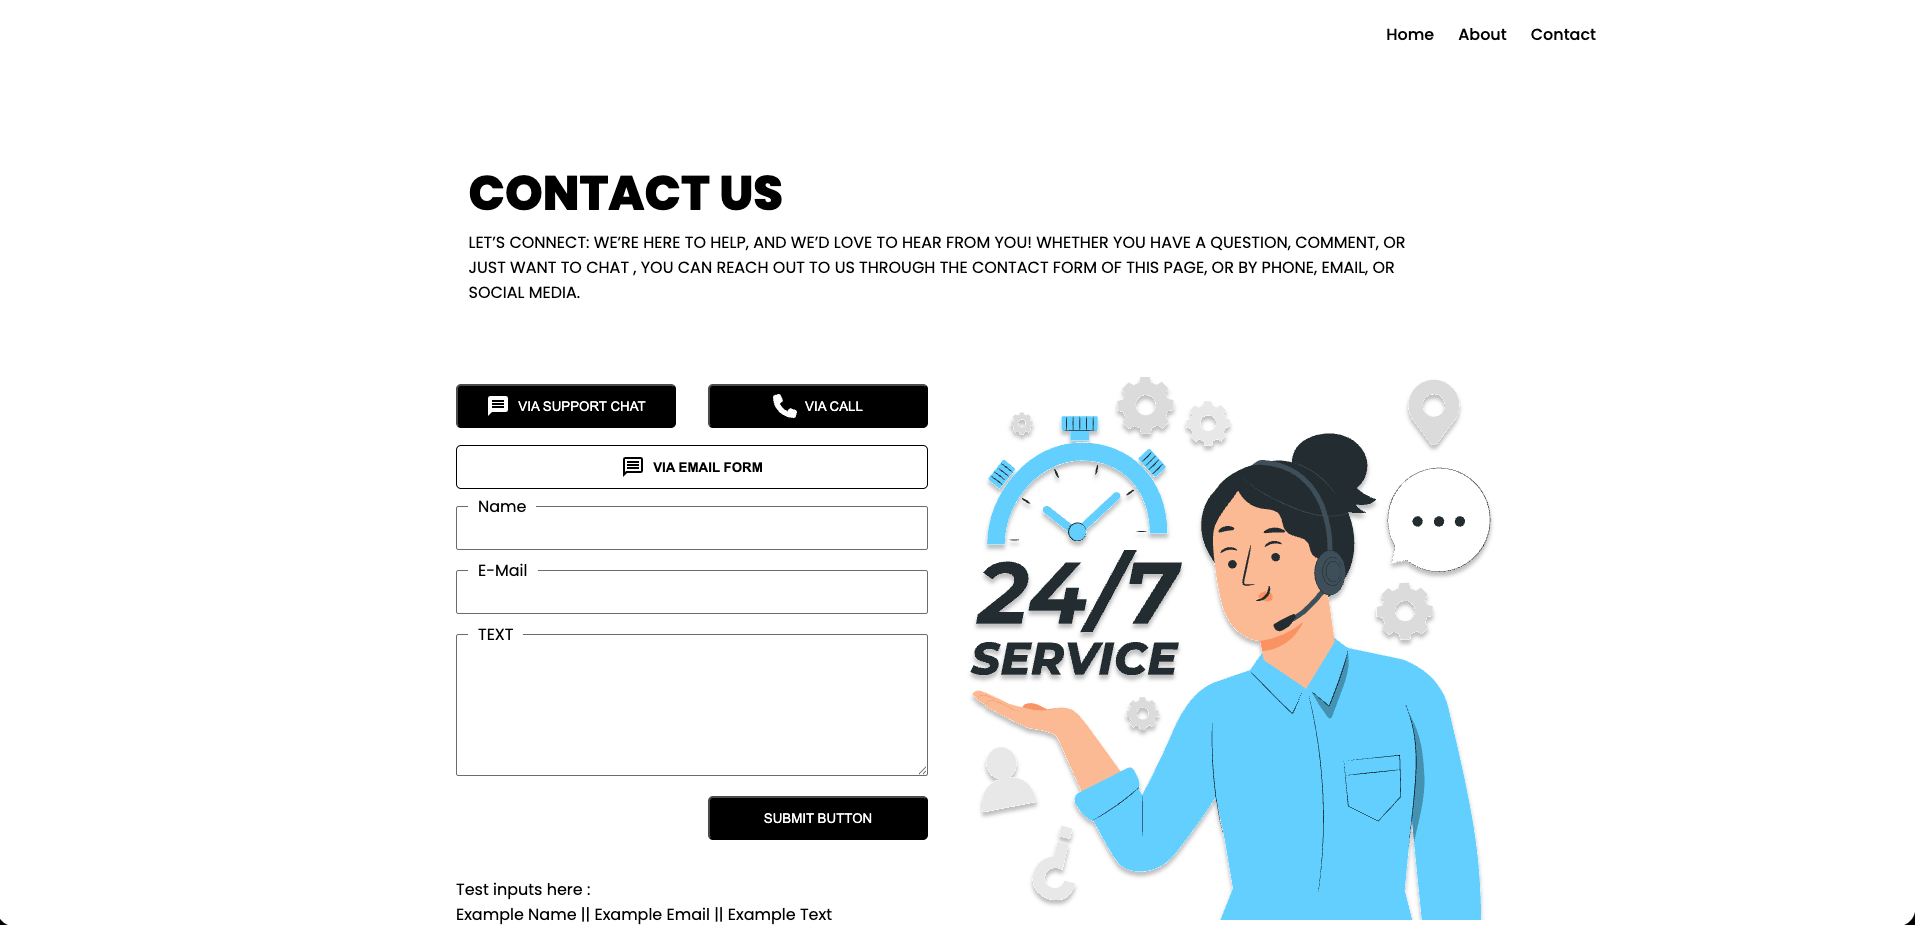
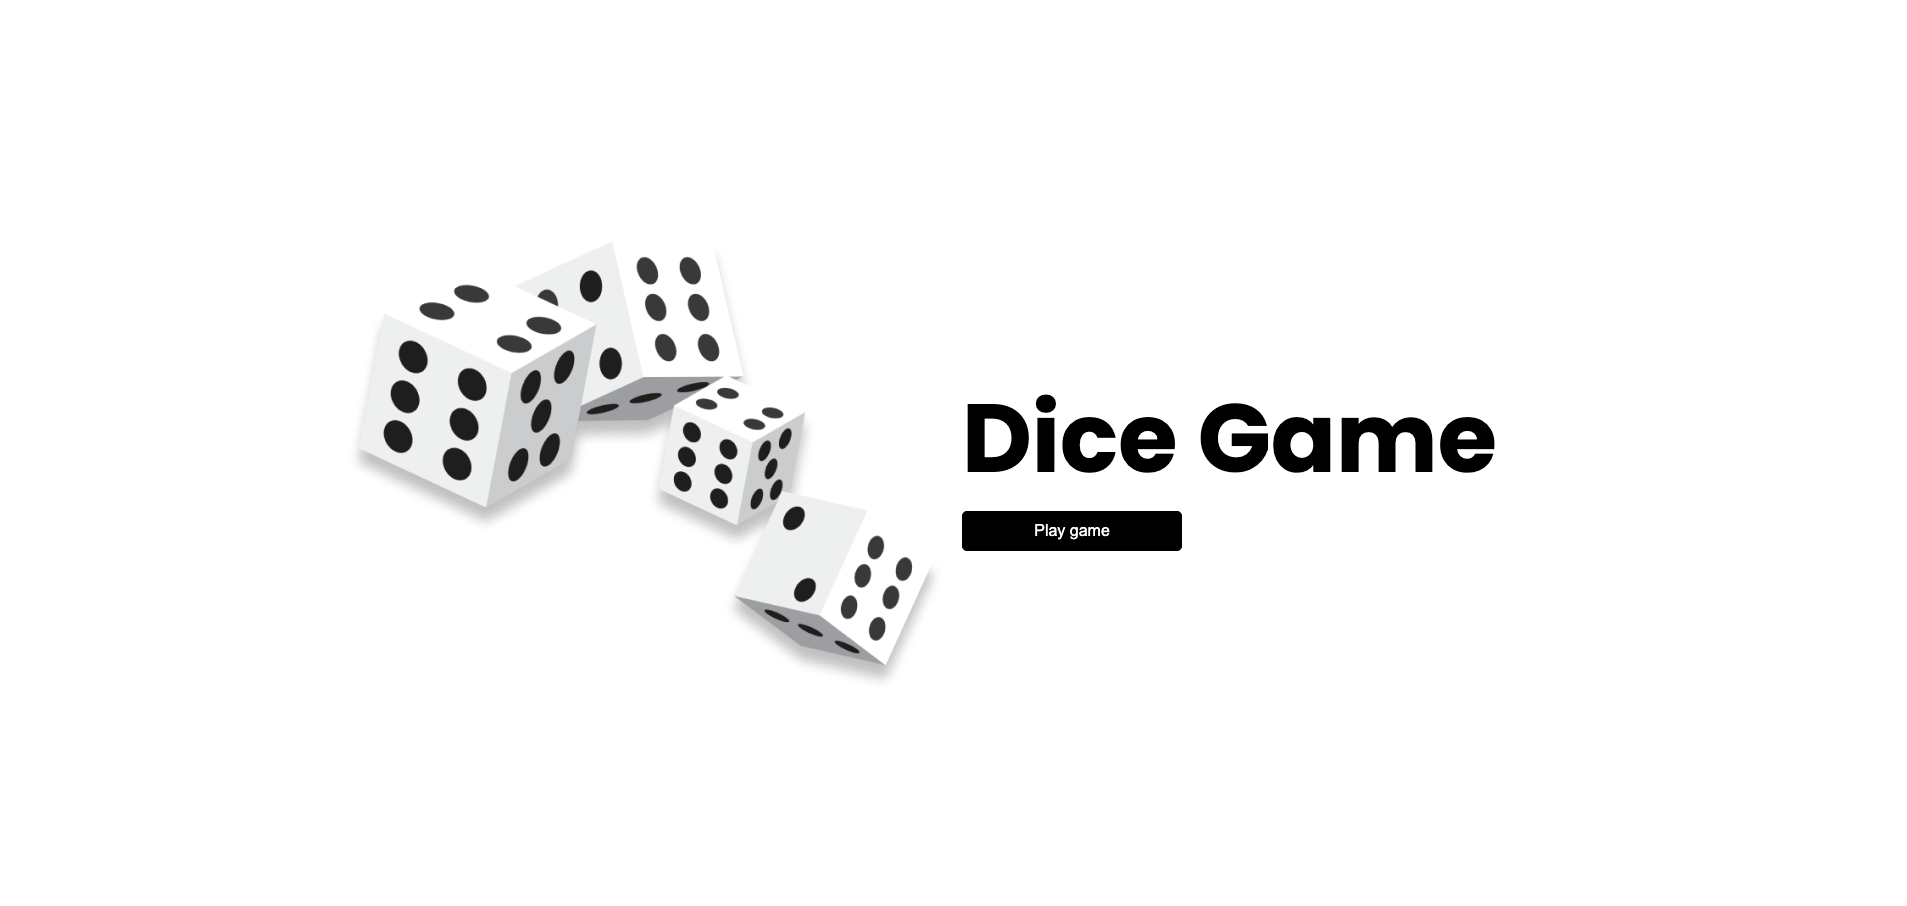
fixed bugs in projects added

diff --git a/src/App.jsx b/src/App.jsx
@@ -14,16 +14,16 @@ export default function App() {
         subtitle="Fun starter apps & experiments"
         projects={[
           {
-            title: "Nike Landing Page",
-            description:
-              "Modern Nike-inspired landing page built with a clean and responsive UI, showcasing products, branding, and engaging visual design.",
+            name: "Nike Landing Page",
+            desc: "Modern Nike-inspired landing page built with a clean and responsive UI, showcasing products, branding, and engaging visual design.",
+            tech: "React",
             link: "https://nike-landing-page-nine-gules.vercel.app/",
             image: "/assets/nike.png",
           },
           {
-            title: "Contact Us Page",
-            description:
-              "Responsive contact page featuring a simple and user-friendly interface with structured form layouts and clean design elements.",
+            name: "Contact Us Page",
+            desc: "Responsive contact page featuring a simple and user-friendly interface with structured form layouts and clean design elements.",
+            tech: "React",
             link: "https://contact-page-dusky-zeta.vercel.app/",
             image: "/assets/contact_us.png",
           },
